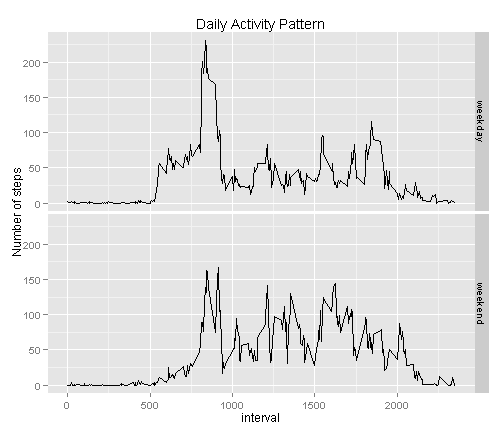
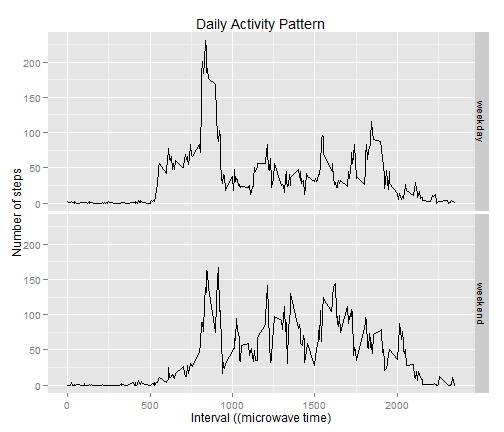
Update

diff --git a/PA1_template.html b/PA1_template.html
@@ -223,7 +223,7 @@ dataset&lt;-read.csv(&quot;activity.csv&quot;)
 <pre><code class="r">hist(dailySteps,main=&quot;Total number of steps per day&quot;,xlab=&quot;Steps&quot;)
 </code></pre>
 
[2 lines of base64/hex data omitted]
 
 <p>Then we calculate Mean and Median values</p>
 
@@ -241,22 +241,22 @@ dataset&lt;-read.csv(&quot;activity.csv&quot;)
 
 <h2>What is the average daily activity pattern?</h2>
 
-<p>First we make the graph </p>
+<p>First we make the graph. It is important to notice that x-axis represents the 5-min interval in terms of time and not integer number. The format is the so called microwave or military time.</p>
 
 <pre><code class="r">fiveMinuteSteps&lt;-ddply(dataset,.(interval),summarize,steps=mean(steps,na.rm=TRUE))
 </code></pre>
 
-<pre><code class="r">plot(fiveMinuteSteps,type=&quot;l&quot;,xlab=&quot;Interval&quot;,ylab=&quot;Steps&quot;,main=&quot;Daily Activity Pattern&quot;)
+<pre><code class="r">plot(fiveMinuteSteps,type=&quot;l&quot;,xlab=&quot;Interval (microwave time)&quot;,ylab=&quot;Steps&quot;,main=&quot;Daily Activity Pattern&quot;)
 </code></pre>
 
[2 lines of base64/hex data omitted]
 
 <p>And then calculate the maximum value</p>
 
-<pre><code class="r">max(fiveMinuteSteps)
+<pre><code class="r">max(fiveMinuteSteps[,2])
 </code></pre>
 
-<pre><code>## [1] 2355
+<pre><code>## [1] 206.1698
 </code></pre>
 
 <h2>Imputing missing values</h2>
@@ -289,7 +289,7 @@ datasetNew&lt;-data.frame(steps=ifelse(is.na(dataset$steps),fiveMinuteSteps$step
 <pre><code class="r">hist(dailyStepsNew,main=&quot;Total number of steps per day&quot;,xlab=&quot;Steps&quot;)
 </code></pre>
 
[2 lines of base64/hex data omitted]
 
 <p>Then calculate mean and median values</p>
 
@@ -321,10 +321,11 @@ datasetNew$day&lt;-ifelse(datasetNew$day==&quot;Saturday&quot;|datasetNew$day==&
 <pre><code class="r">datasetNew2&lt;-ddply(datasetNew,.(interval,day),summarize,steps=mean(steps))
 </code></pre>
 
-<pre><code class="r">qplot(interval,steps,data=datasetNew2,facets=day~.,geom=&quot;line&quot;,main=&quot;Daily Activity Pattern&quot;, ylab=&quot;Number of steps&quot;)
+<pre><code class="r">qplot(interval,steps,data=datasetNew2,facets=day~.,geom=&quot;line&quot;,main=&quot;Daily Activity Pattern&quot;, xlab=&quot;Interval ((microwave time)&quot;,
+      ylab=&quot;Number of steps&quot;)
 </code></pre>
 
[2 lines of base64/hex data omitted]
 
 <p>The two graphs clearly show change in the activity patterns between weekends and weekdays. Weekends tend to have a smoother distribution of steps within the day, as well as different sleeping and waking up hours. Weekends also show an overall higher number of steps compared to weekdays. </p>
 

diff --git a/PA1_template.md b/PA1_template.md
@@ -52,7 +52,7 @@ median(dailySteps,na.rm=TRUE)
 ```
 ## What is the average daily activity pattern?
 
-First we make the graph 
+First we make the graph. It is important to notice that x-axis represents the 5-min interval in terms of time and not integer number. The format is the so called microwave or military time.
 
 
 ```r
@@ -61,7 +61,7 @@ fiveMinuteSteps<-ddply(dataset,.(interval),summarize,steps=mean(steps,na.rm=TRUE
 
 
 ```r
-plot(fiveMinuteSteps,type="l",xlab="Interval",ylab="Steps",main="Daily Activity Pattern")
+plot(fiveMinuteSteps,type="l",xlab="Interval (microwave time)",ylab="Steps",main="Daily Activity Pattern")
 ```
 
 ![plot of chunk unnamed-chunk-6](figure/unnamed-chunk-6-1.png) 
@@ -70,11 +70,11 @@ And then calculate the maximum value
 
 
 ```r
-max(fiveMinuteSteps)
+max(fiveMinuteSteps[,2])
 ```
 
 ```
-## [1] 2355
+## [1] 206.1698
 ```
 
 ## Imputing missing values
@@ -159,7 +159,8 @@ datasetNew2<-ddply(datasetNew,.(interval,day),summarize,steps=mean(steps))
 
 
 ```r
-qplot(interval,steps,data=datasetNew2,facets=day~.,geom="line",main="Daily Activity Pattern", ylab="Number of steps")
+qplot(interval,steps,data=datasetNew2,facets=day~.,geom="line",main="Daily Activity Pattern", xlab="Interval ((microwave time)",
+      ylab="Number of steps")
 ```
 
 ![plot of chunk unnamed-chunk-15](figure/unnamed-chunk-15-1.png) 
